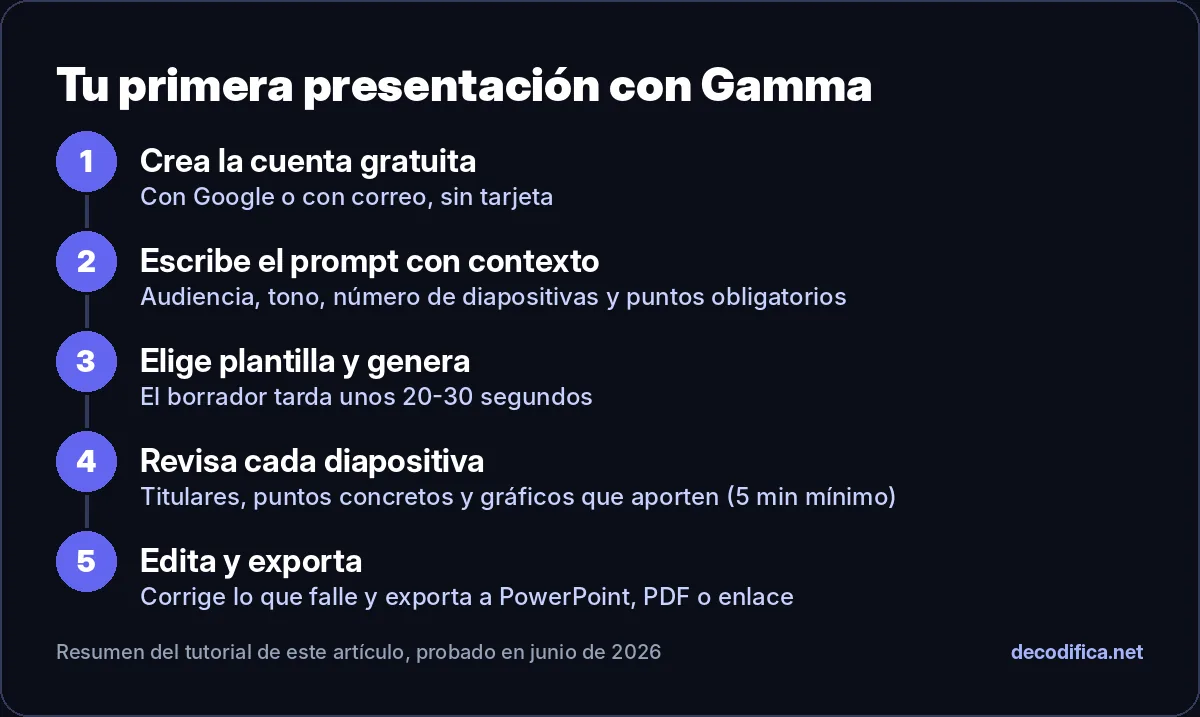
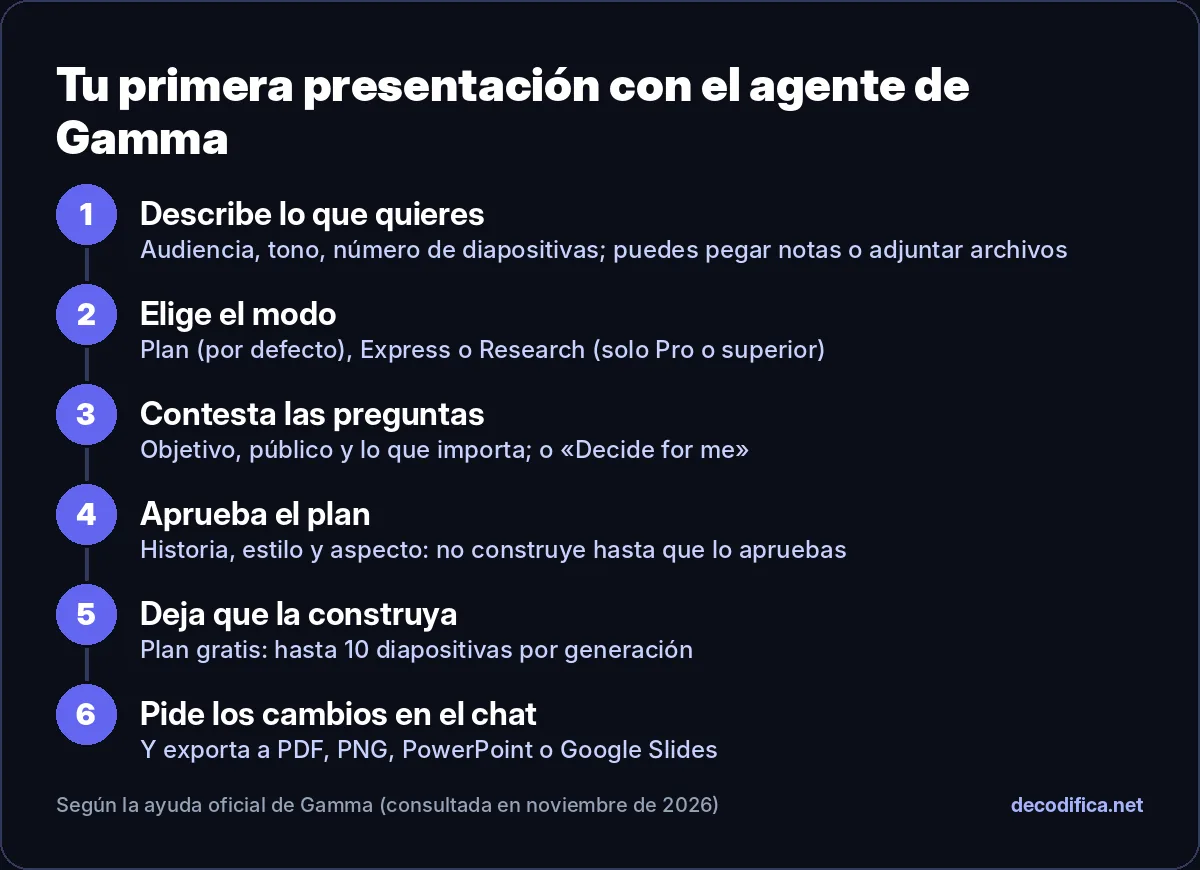
Repaso mensual 20-11: datos al día en pendientes, presentaciones (tutorial del agente de Gamma), NotebookLM vs Perplexity y Manus vs ChatGPT; 2 enlaces rotos
Claude-Session: https://claude.ai/code/session_012nLXgEpLTZXUGcFgkESQLD

diff --git a/src/data/tool-comparisons.ts b/src/data/tool-comparisons.ts
@@ -25,10 +25,10 @@ export const toolComparisons: ToolComparison[] = [
     title: 'Manus vs ChatGPT',
     seoTitle: 'Manus vs ChatGPT: cuál es mejor y cuánto cuesta Manus',
     description: 'Manus o ChatGPT para tareas de varios pasos: en qué se diferencian, cuándo conviene cada uno, cuánto cuesta Manus (tiene plan gratis) y qué revisar antes de delegar.',
-    modifiedDate: '2026-10-22',
+    modifiedDate: '2026-11-20',
     left: 'manus',
     right: 'chatgpt',
-    verdict: 'Manus está pensado para encargarle una tarea de varias etapas y recibir el resultado terminado (un informe, una web, unas diapositivas), trabajando por su cuenta en un entorno en la nube. ChatGPT encaja mejor cuando quieres ir paso a paso en una conversación, con tus archivos y apps dentro de un asistente general; para pedirle un entregable completo tiene el modo Work. Manus tiene plan gratis con 300 créditos al día y sus planes de pago empiezan en 20 $ al mes (consultado el 22-10-2026).',
+    verdict: 'Manus está pensado para encargarle una tarea de varias etapas y recibir el resultado terminado (un informe, una web, unas diapositivas), trabajando por su cuenta en un entorno en la nube. ChatGPT encaja mejor cuando quieres ir paso a paso en una conversación, con tus archivos y apps dentro de un asistente general; para pedirle un entregable completo tiene el modo Work. Manus tiene plan gratis con 300 créditos al día (hasta 1.500 al mes) y sus planes de pago empiezan en 20 $ al mes (consultado el 20-11-2026).',
     chooseLeft: ['La tarea tiene etapas y un entregable claro (informe, web, presentación).', 'Puedes revisar el plan y las acciones antes de dar el resultado por bueno.', 'Necesitas que investigue muchas fuentes a la vez o que siga trabajando sin ti.'],
     chooseRight: ['Ya pagas y trabajas en ChatGPT.', 'Prefieres ir paso a paso y corregir sobre la marcha.', 'Quieres más control de la conversación.'],
     sharedRisks: ['Concede el mínimo acceso.', 'Nada irreversible sin confirmación.', 'Revisa fuentes y acciones.'],
@@ -43,13 +43,17 @@ export const toolComparisons: ToolComparison[] = [
       { label: 'Manus: precios de cada plan (centro de ayuda)', href: 'https://help.manus.im/en/articles/11711111-what-is-the-current-membership-pricing-for-manus' },
       { label: 'Manus: créditos gratis al registrarse y cada día (centro de ayuda)', href: 'https://help.manus.im/en/articles/11813668-are-there-any-discounts-or-special-offers' },
       { label: 'Manus vs ChatGPT, según Manus', href: 'https://manus.im/compare/vs-chatgpt' },
+      { label: 'Manus: reglas de los créditos y tope mensual del plan gratis (centro de ayuda)', href: 'https://help.manus.im/en/articles/11711097-what-are-the-rules-for-credits-consumption-and-how-can-i-obtain-them' },
       { label: 'Manus Joins Meta for Next Era of Innovation (blog de Manus)', href: 'https://manus.im/blog/manus-joins-meta-for-next-era-of-innovation' },
+      { label: 'A note to our users: la separación de Meta (blog de Manus)', href: 'https://manus.im/blog/a-note-to-our-users' },
+      { label: 'Manus Resumes Independent Operations (blog de Manus)', href: 'https://manus.im/blog/manus-resumes-independent-operations' },
+      { label: 'Apps de Manus para ordenador y móvil', href: 'https://manus.im/download' },
       { label: 'ChatGPT Work (OpenAI)', href: 'https://openai.com/chatgpt-work/' },
     ],
     faq: [
       {
         q: '¿Manus es gratis?',
-        a: 'Tiene un plan gratis: incluye el modo chat y Manus 2.0 Lite en modo agente, 300 créditos que se recargan cada día, una tarea a la vez y 2 tareas programadas; al registrarte te dan además 1.000 créditos. Los planes de pago cuestan 20 $ al mes (4.000 créditos), 40 $ (8.000) y 200 $ (40.000), con un 17 % menos si pagas el año. Consultado el 22-10-2026 en su web y su centro de ayuda.',
+        a: 'Tiene un plan gratis: Manus 2.0 Lite en modo agente, 300 créditos que se recargan cada día (con un tope de 1.500 al mes), una tarea a la vez y 2 tareas programadas; al registrarte te dan además 1.000 créditos. Los planes de pago empiezan en 20 $ al mes (4.000 créditos) y 40 $ (8.000), con un 17 % menos si pagas el año; los planes más altos, en manus.im/pricing. Consultado el 20-11-2026 en su centro de ayuda.',
       },
       {
         q: '¿Qué es mejor, Manus o ChatGPT?',
@@ -57,7 +61,7 @@ export const toolComparisons: ToolComparison[] = [
       },
       {
         q: '¿Manus es de Meta?',
-        a: 'Sí. Manus anunció el 29 de diciembre de 2025 que se une a Meta. En ese mismo anuncio dijo que seguiría vendiendo y gestionando sus suscripciones desde su web y su app.',
+        a: 'Ya no. Meta compró Manus el 29 de diciembre de 2025, pero Manus se separó después: el 1 de septiembre de 2026 anunció que vuelve a funcionar como empresa independiente, dirigida por su equipo fundador. Las suscripciones se siguen gestionando desde su web y su app.',
       },
       {
         q: '¿Manus está en español?',

diff --git a/src/data/tools.ts b/src/data/tools.ts
@@ -174,7 +174,7 @@ const coreTools: Tool[] = [
   {
     slug: 'notebooklm',
     name: 'NotebookLM',
-    summary: 'Herramienta de Google para trabajar con fuentes propias: PDFs, webs, vídeos, notas y materiales de estudio.',
+    summary: 'Herramienta de Google (desde julio de 2026 se llama Gemini Notebook) para trabajar con fuentes propias: PDFs, webs, vídeos, notas y materiales de estudio.',
     metaDescription: 'Ficha práctica de NotebookLM: cuando usarlo con fuentes propias, privacidad, dificultad, límites y alternativas.',
     useCase: 'Investigación',
     price: 'Freemium',
@@ -183,7 +183,7 @@ const coreTools: Tool[] = [
     bestFor: 'Cuando quieres preguntar a tus propias fuentes y mantener la respuesta anclada al material que has subido.',
     avoidIf: 'Necesitas automatizar acciones fuera del cuaderno o trabajar con información muy confidencial sin revisar condiciones.',
     tags: ['fuentes', 'investigación', 'estudio', 'resumen'],
-    officialUrl: 'https://notebooklm.google/',
+    officialUrl: 'https://notebook.google/',
     relatedLinks: [
       { label: 'NotebookLM vs Perplexity', href: '/herramientas/notebooklm-vs-perplexity/' },
       { label: 'Herramientas para investigar con fuentes', href: '/herramientas/casos/para-investigar/' },
@@ -216,13 +216,15 @@ const coreTools: Tool[] = [
         'Anonimiza documentos cuando el valor esta en el contenido y no en los datos personales.',
       ],
       priceNotes: [
-        'La herramienta tiene acceso gratuito y opciones ampliadas según el ecosistema de Google.',
-        'Los límites de cuadernos, fuentes y funciones pueden cambiar.',
+        'Sin plan de pago: hasta 100 cuadernos y 50 fuentes por cuaderno; el uso se renueva cada 5 horas hasta un límite semanal (ayuda de Google, consultada en noviembre de 2026).',
+        'Google AI Plus sube a 200 cuadernos y 100 fuentes; AI Pro, a 500 y 300. Google avisa de que los límites pueden cambiar.',
       ],
       alternatives: ['Perplexity para investigar en web', 'Claude para redactar con contexto', 'ChatGPT para uso general'],
       sources: [
-        { label: 'Web oficial de NotebookLM', href: 'https://notebooklm.google/' },
-        { label: 'NotebookLM para estudiantes', href: 'https://notebooklm.google/students' },
+        { label: 'Web oficial de Gemini Notebook (antes NotebookLM)', href: 'https://notebook.google/' },
+        { label: 'NotebookLM para estudiantes', href: 'https://notebook.google/students' },
+        { label: 'Google: NotebookLM pasa a llamarse Gemini Notebook', href: 'https://blog.google/innovation-and-ai/products/gemini-notebook/notebooklm-gemini-notebook/' },
+        { label: 'Planes y límites de Gemini Notebook', href: 'https://support.google.com/gemininotebook/answer/16213268?hl=es' },
       ],
     },
   },
@@ -277,7 +279,7 @@ const coreTools: Tool[] = [
       ],
       alternatives: ['NotebookLM para fuentes propias', 'ChatGPT para sintetizar y escribir', 'Claude para documentos largos', 'Google para búsqueda manual'],
       sources: [
-        { label: 'Planes oficiales de Perplexity', href: 'https://www.perplexity.ai/enterprise/pricing' },
+        { label: 'Planes oficiales de Perplexity', href: 'https://www.perplexity.ai/hub/pricing' },
         { label: 'Perplexity Pro', href: 'https://www.perplexity.ai/pro' },
         { label: 'FAQ de precios Enterprise', href: 'https://www.perplexity.ai/help-center/en/articles/10352986-enterprise-pricing-and-billing-frequently-asked-questions.html' },
       ],

diff --git a/src/data/tools-expanded.ts b/src/data/tools-expanded.ts
@@ -167,7 +167,7 @@ const specs: ExpandedSpec[] = [
     summary: 'Agente general para investigar, organizar información y ejecutar tareas conectadas en varias etapas.',
     bestFor: 'Cuando una tarea necesita varios pasos y puedes revisar el plan, las fuentes y la salida.',
     avoidIf: 'Vas a conceder acceso amplio sin revisar permisos o esperas autonomía infalible.',
-    tags: ['agentes', 'investigación', 'automatización', 'conectores'], officialUrl: 'https://manus.im/', difficulty: 'Media',
+    tags: ['agentes', 'investigación', 'automatización', 'conectores'], officialUrl: 'https://manus.im/', difficulty: 'Media', platforms: ['Web', 'macOS', 'Windows', 'iPhone y iPad', 'Android'],
     idealFor: ['Investigaciones con entregable.', 'Tareas de varias etapas.', 'Prototipos de automatización supervisada.'],
     notFor: ['Credenciales innecesarias.', 'Acciones irreversibles.', 'Decisiones sin trazabilidad.'],
     workflow: ['Define entregable y límites.', 'Revisa el plan.', 'Concede el mínimo acceso.', 'Verifica fuentes y acciones.'],
